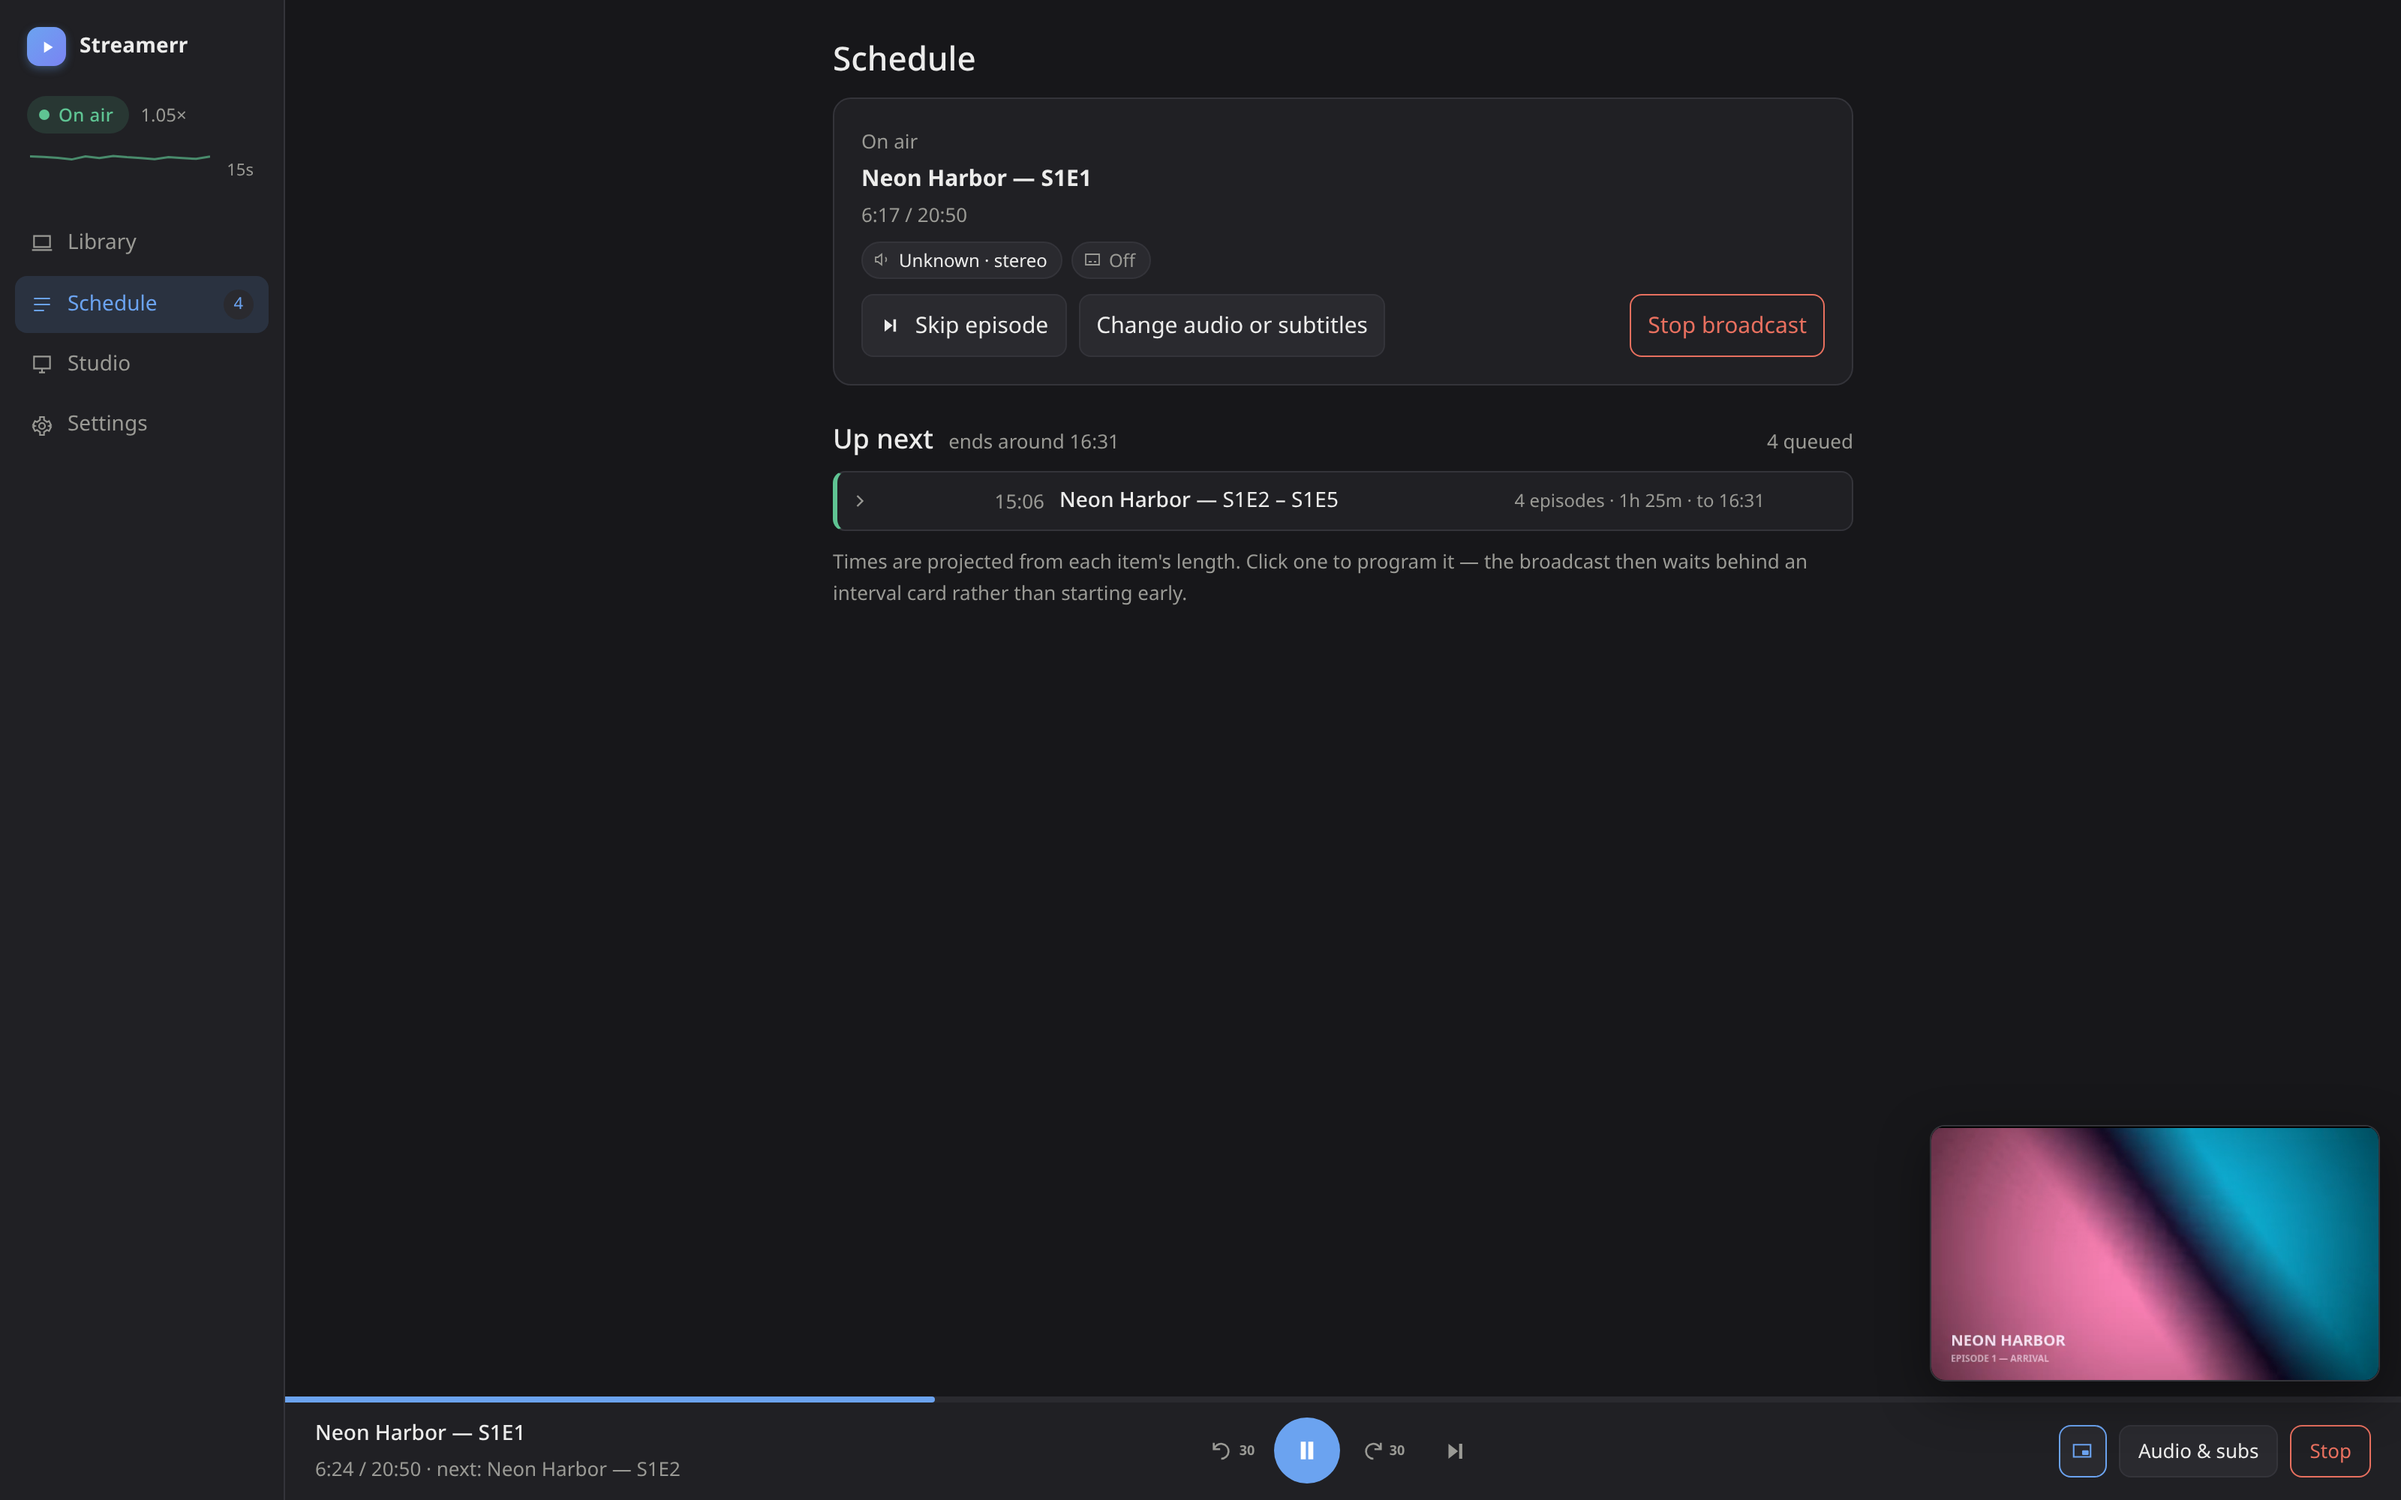
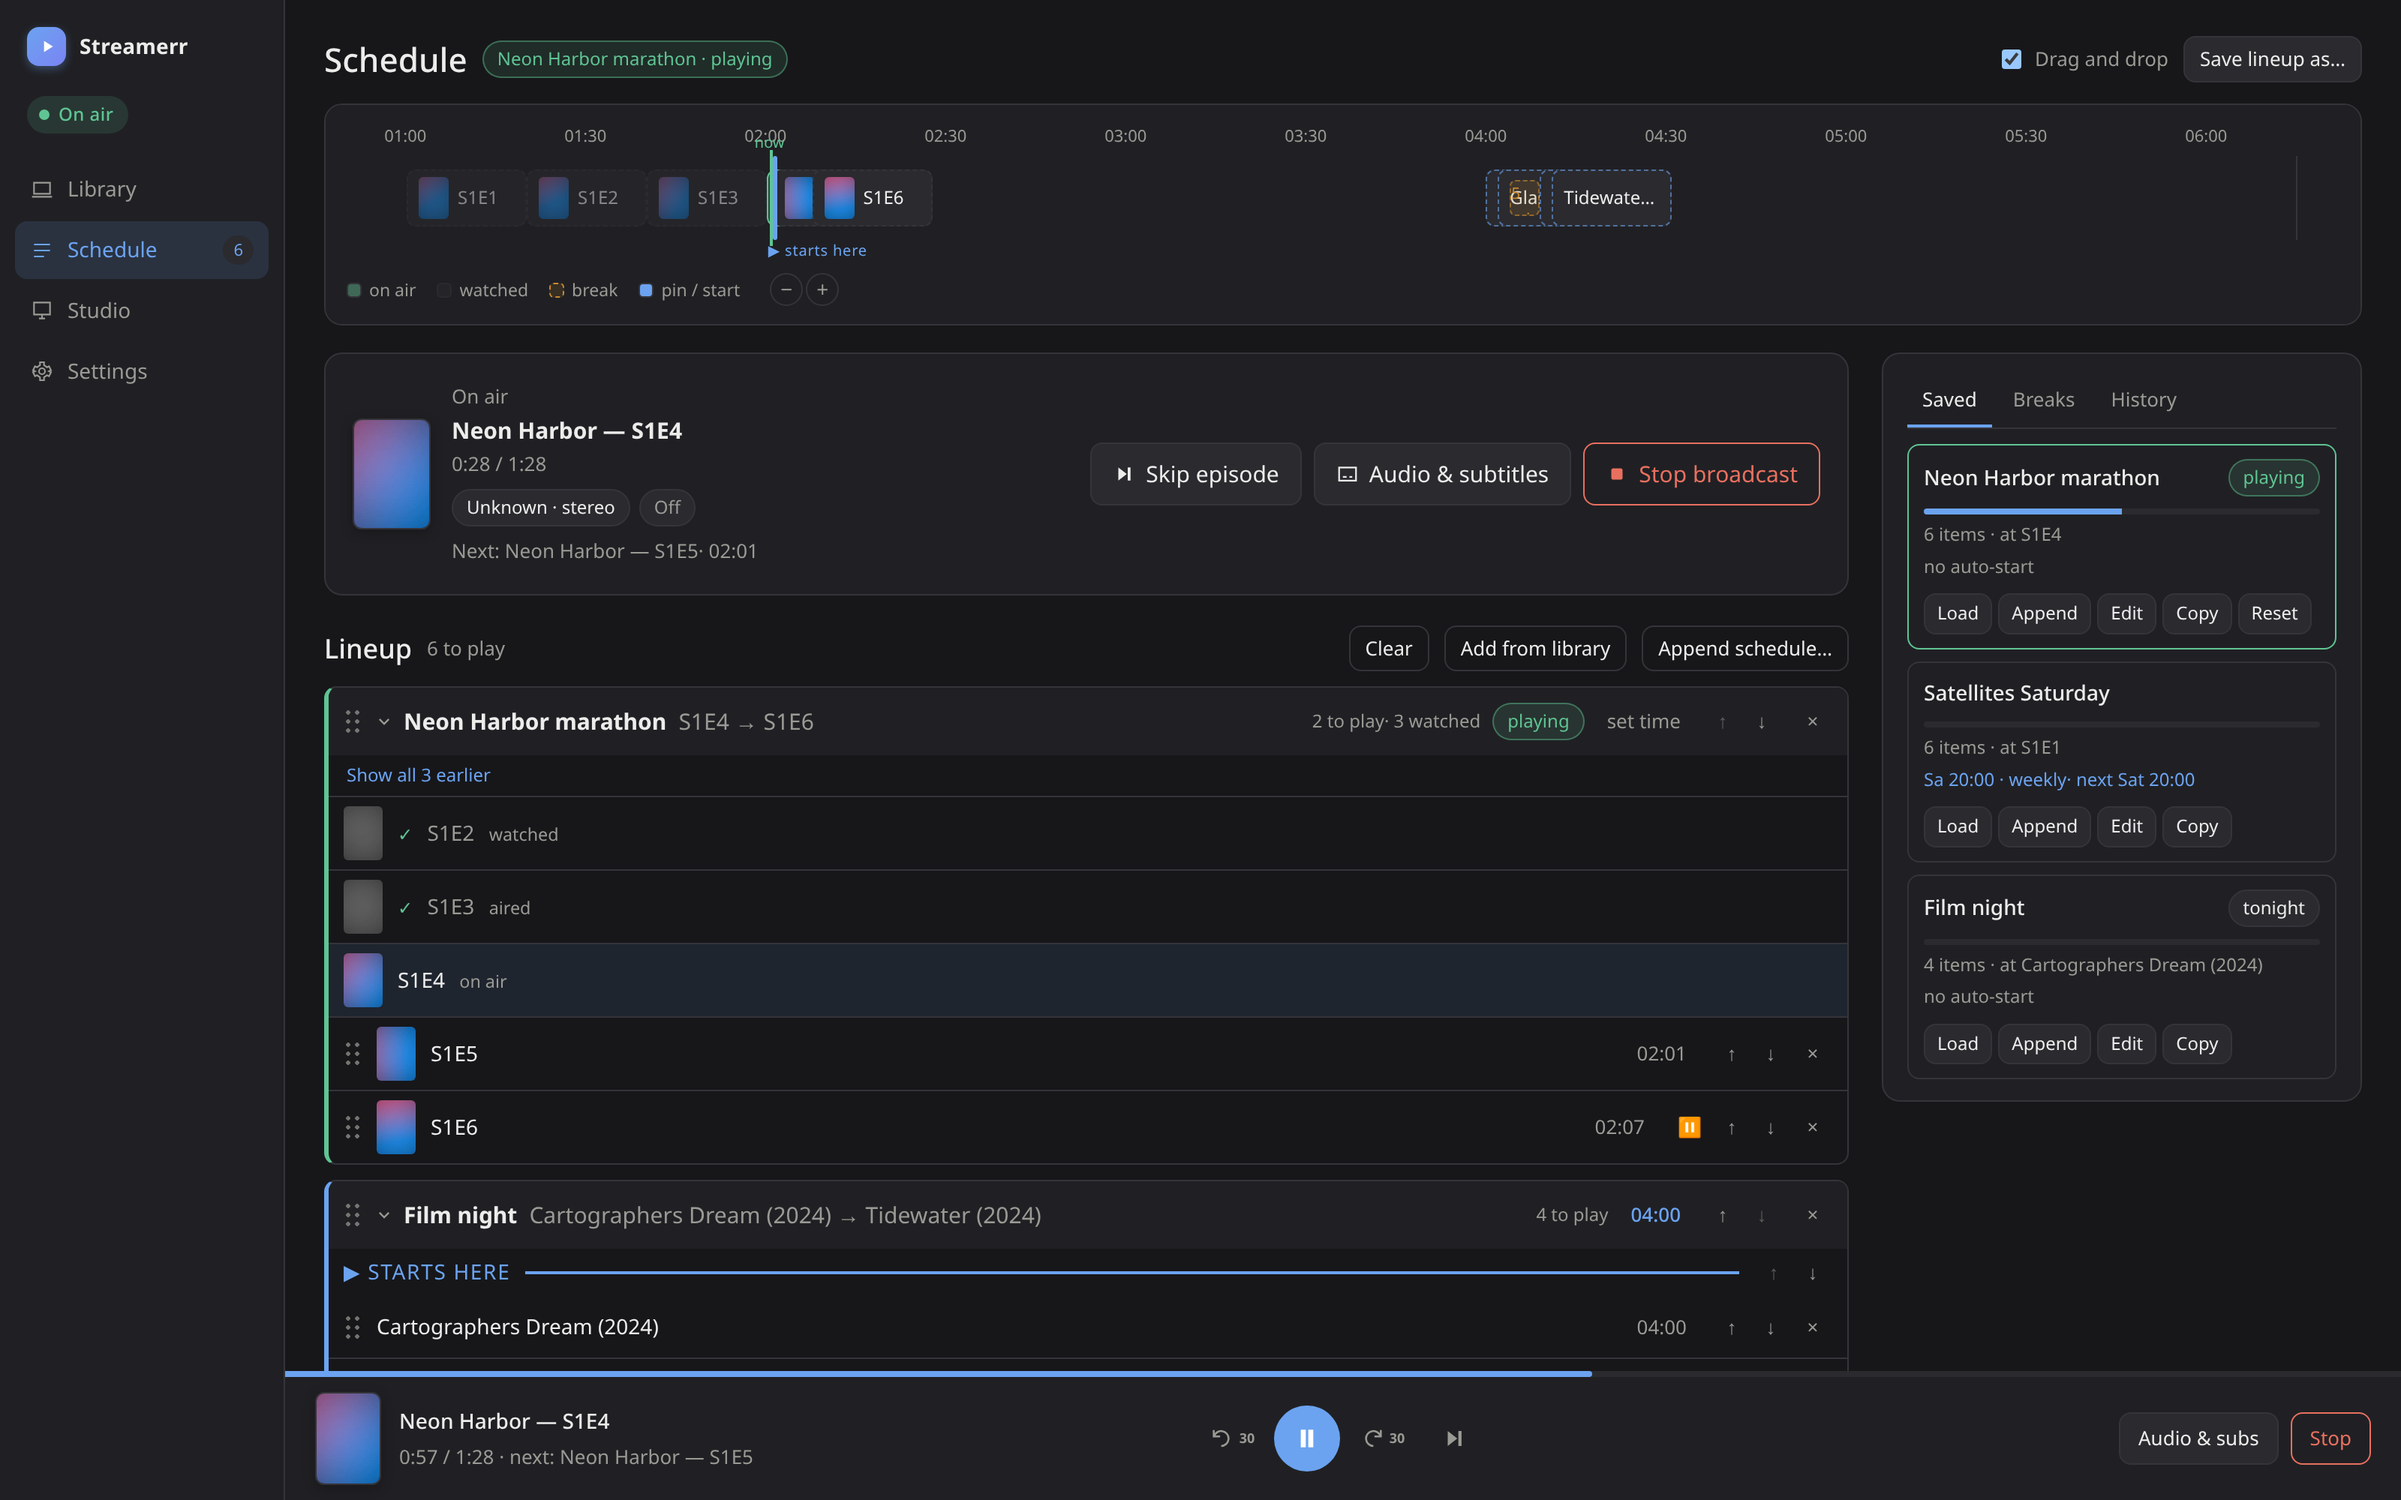
README: the schedule shot retaken for the new page; artwork ids resolve after a library rebuild
The screenshot shows the timeline-first Schedule with an invented
library (generated stills and posters, no real artwork). Taking it
surfaced a real bug: a settings save rebuilds the library object, and
the filesystem provider's image ids live in a map filled while
browsing, so every poster 404'd until someone browsed again — the same
shape as the 'Unknown item' fix. The image route and the poster
preparation now ask the provider to index on a miss.

diff --git a/src/index.js b/src/index.js
@@ -540,7 +540,7 @@ function sgArtPrepare(imageSrc) {
       let src = imageSrc;
       if (src.startsWith('/api/library/image/')) {
         const id = decodeURIComponent(src.split('/').pop().split('?')[0]);
-        src = library.imagePath?.(id) ?? null;
+        src = library.imagePath?.(id) ?? (library.resolveImage ? await library.resolveImage(id).catch(() => null) : null);
         if (!src) {
           dpush('warn', `artwork: image id ${id} no longer resolves — poster skipped`);
           return null;
@@ -2294,7 +2294,8 @@ app.get('/api/library/episodes', wrap(async (req, res) =>
 
 /** Local artwork for the filesystem provider; Jellyfin serves its own. */
 app.get('/api/library/image/:id', async (req, res) => {
-  const p = library.imagePath?.(req.params.id);
+  let p = library.imagePath?.(req.params.id);
+  if (!p && library.resolveImage) p = await library.resolveImage(req.params.id).catch(() => null);
   // A provider may hand back a remote url (Jellyfin serves its own artwork);
   // only a local path can be checked for existence here.
   if (!p || (!isRemote(p) && !existsSync(p))) return res.status(404).end();

diff --git a/src/library/composite.js b/src/library/composite.js
@@ -167,6 +167,13 @@ export class CompositeLibrary {
     return r ? (r.src.lib.imagePath?.(r.id) ?? null) : null;
   }
 
+  async resolveImage(imageId) {
+    const r = this._route(imageId);
+    if (!r) return null;
+    if (r.src.lib.resolveImage) return (await r.src.lib.resolveImage(r.id)) ?? null;
+    return r.src.lib.imagePath?.(r.id) ?? null;
+  }
+
   // ── the SMB bridge ───────────────────────────────────────────────────
   // Its urls are minted by whichever SMB source produced them, and carry
   // that source's own token, so the bridge asks the composite to find the

diff --git a/src/library/paired.js b/src/library/paired.js
@@ -168,6 +168,12 @@ export class PairedLibrary {
     return this.catalogue.imagePath(...a) ?? this.media.imagePath?.(...a) ?? null;
   }
 
+  async resolveImage(...a) {
+    const cat = this.catalogue.resolveImage ? await this.catalogue.resolveImage(...a) : this.catalogue.imagePath(...a);
+    if (cat) return cat;
+    return this.media.resolveImage ? ((await this.media.resolveImage(...a)) ?? null) : (this.media.imagePath?.(...a) ?? null);
+  }
+
   shows(...a) { return this.catalogue.shows?.(...a); }
   search(...a) { return this.catalogue.search?.(...a); }
   allPaths(...a) { return this.catalogue.allPaths?.(...a); }

diff --git a/src/library/filesystem.js b/src/library/filesystem.js
@@ -634,4 +634,15 @@ export class FilesystemLibrary {
   imagePath(imageId) {
     return this._paths.get(imageId) ?? null;
   }
+
+  /**
+   * imagePath, but willing to index first. Image ids are minted while
+   * browsing like item ids, so after a settings save rebuilt the library
+   * every poster 404'd until someone browsed again.
+   */
+  async resolveImage(imageId) {
+    let p = this._paths.get(imageId);
+    if (!p) { await this._indexAll(); p = this._paths.get(imageId); }
+    return p ?? null;
+  }
 }

diff --git a/README.md b/README.md
@@ -57,7 +57,7 @@ Two good options, one fallback:
 | Schedule | Settings | Studio |
 | --- | --- | --- |
 | ![Schedule](docs/screenshots/schedule.png) | ![Settings](docs/screenshots/settings.png) | ![Studio](docs/screenshots/studio.png) |
-| What's on air and up next, with projected times | Simple mode: two levers, plus your own saved preset | Overlays positioned on the live frame |
+| Tonight on a timeline: what's on air, what follows and when, saved schedules that remember where you left off, breaks, history | Simple mode: two levers, plus your own saved preset | Overlays positioned on the live frame |
 
 ## The receiving end
 
